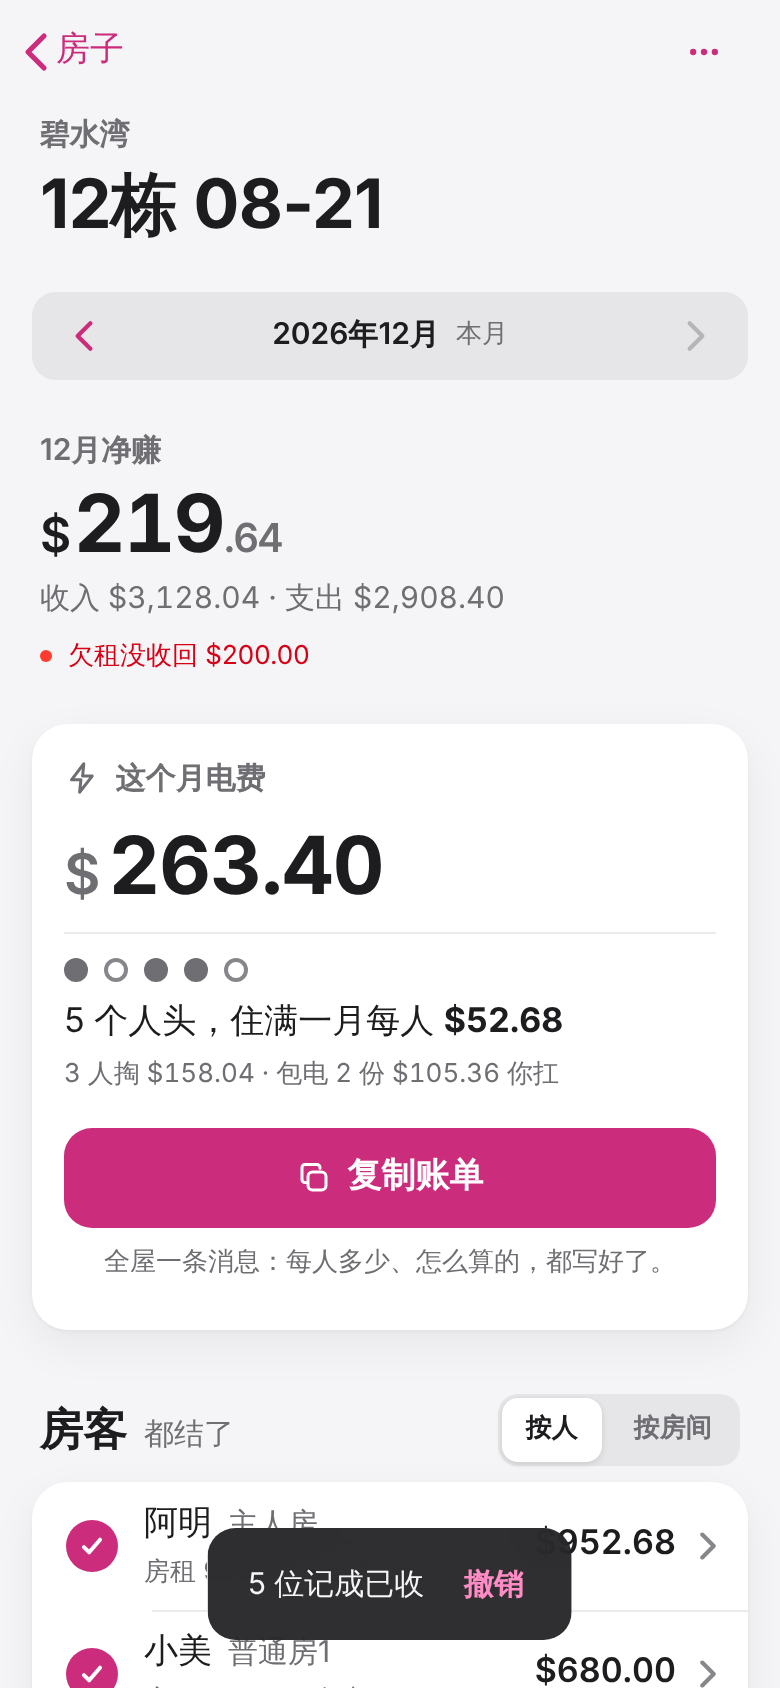
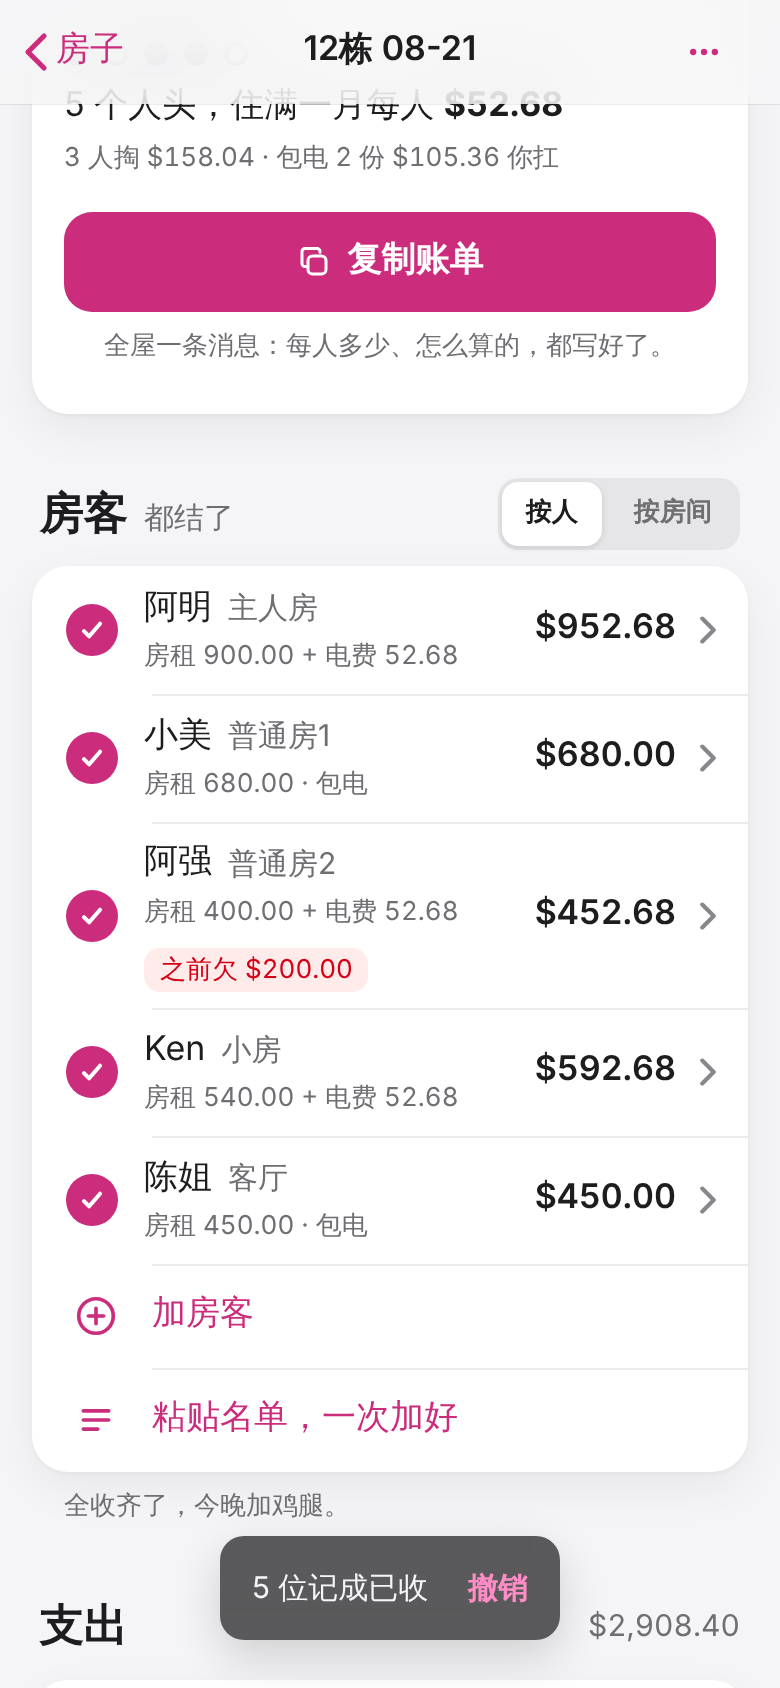
包租僧 0.3.0：撤销提示条底部居中、毛玻璃、圆角 12，页底留 96 不盖最后一行；重出 3-result 四张
Claude-Session: https://claude.ai/code/session_01KCV9xrugD8gYybbP9zkdxi

diff --git a/baozuseng/index.html b/baozuseng/index.html
@@ -29,7 +29,7 @@
   --shadow:0 1px 2px rgba(0,0,0,.04),0 8px 24px rgba(0,0,0,.06);
   --ease:cubic-bezier(.2,.8,.2,1); --t:240ms;
   --glass:rgba(245,245,247,.72); --scrim:rgba(0,0,0,.32); --sheet:#f5f5f7; --sheet-card:#ffffff;
-  --toast-bg:rgba(29,29,31,.92); --toast-fg:#f5f5f7; --knob:#ffffff; --bar:rgba(120,120,128,.28);
+  --toast-bg:rgba(29,29,31,.72); --toast-fg:#f5f5f7; --knob:#ffffff; --bar:rgba(120,120,128,.28);
   color-scheme:light;
 }
 @media (prefers-color-scheme:dark){:root{
@@ -40,7 +40,7 @@
   --accent:#ff5ca8; --accent-fill:#d63384; --accent-tint:rgba(255,92,168,.16);
   --bad-ink:#ff6961; --bad-tint:rgba(255,69,58,.16);
   --glass:rgba(22,22,24,.72); --scrim:rgba(0,0,0,.56); --sheet:#1c1c1e; --sheet-card:#2c2c2e;
-  --toast-bg:rgba(58,58,60,.96); --bar:rgba(120,120,128,.44);
+  --toast-bg:rgba(58,58,60,.72); --bar:rgba(120,120,128,.44);
   color-scheme:dark;
 }}
 
@@ -77,7 +77,7 @@ button:focus:not(:focus-visible),a:focus:not(:focus-visible){outline:none}
 .stale-all #hHero,.stale-all #hTen{opacity:.35;transition:opacity 200ms var(--ease)}
 
 /* 页面 */
-.wrap{max-width:600px;margin:0 auto;padding:0 max(16px,env(safe-area-inset-right,0px)) 48px max(16px,env(safe-area-inset-left,0px))}
+.wrap{max-width:600px;margin:0 auto;padding:0 max(16px,env(safe-area-inset-right,0px)) calc(96px + env(safe-area-inset-bottom,0px)) max(16px,env(safe-area-inset-left,0px))}
 #view{overflow-x:clip}
 .enter{animation:push var(--t) var(--ease)}
 @keyframes push{from{opacity:.4;transform:translateX(12px)}to{opacity:1;transform:none}}
@@ -304,10 +304,12 @@ a.row:active,button.row:active,.row-btn:active{background:var(--fill)}
 .bk.dup{opacity:.5}
 
 /* 提示条：能撤销 */
-#toast{position:fixed;left:50%;bottom:calc(24px + env(safe-area-inset-bottom,0px));z-index:60;display:flex;align-items:center;gap:16px;max-width:calc(100% - 32px);transform:translate(-50%,16px);opacity:0;pointer-events:none;padding:12px 20px;border-radius:var(--r-btn-l);background:var(--toast-bg);color:var(--toast-fg);font-size:15px;font-weight:400;-webkit-backdrop-filter:saturate(180%) blur(20px);backdrop-filter:saturate(180%) blur(20px);transition:opacity var(--t) var(--ease),transform var(--t) var(--ease)}
-#toast.show{opacity:1;transform:translate(-50%,0)}
+/* 提示条：底部居中（整页内容区就是居中的），离底 24 + 安全区，毛玻璃；页面底部留了 96 不让它盖最后一行 */
+#toast{position:fixed;left:0;right:0;margin:0 auto;width:max-content;bottom:calc(24px + env(safe-area-inset-bottom,0px));z-index:60;display:flex;align-items:center;gap:12px;min-height:44px;max-width:calc(100% - 32px);transform:translateY(16px);opacity:0;pointer-events:none;padding:8px 16px;border-radius:var(--r-btn);box-shadow:0 8px 24px rgba(0,0,0,.16);background:var(--toast-bg);color:var(--toast-fg);font-size:15px;font-weight:400;-webkit-backdrop-filter:saturate(180%) blur(20px);backdrop-filter:saturate(180%) blur(20px);transition:opacity var(--t) var(--ease),transform var(--t) var(--ease)}
+#toast.show{opacity:1;transform:none}
+#toast.has-act{padding-right:8px}
 #toast.show.has-act{pointer-events:auto}
-#toast button{color:#ff8cc4;font-weight:600;min-height:32px;padding:0 4px;white-space:nowrap}
+#toast button{color:#ff8cc4;font-weight:600;min-height:36px;padding:0 8px;border-radius:var(--r-chip);white-space:nowrap}
 
 /* 放到主屏幕 */
 .a2hs{display:flex;gap:12px;align-items:center;background:var(--card);border-radius:var(--r-card);padding:12px 4px 12px 16px;margin-bottom:24px;box-shadow:var(--shadow)}

diff --git a/baozuseng/bench/shots-0.3.js b/baozuseng/bench/shots-0.3.js
@@ -38,7 +38,9 @@ const IPHONE_UA = 'Mozilla/5.0 (iPhone; CPU iPhone OS 17_5 like Mac OS X) AppleW
       await p.locator('[data-act=copy-bills]').click(); await p.waitForTimeout(300);
       await p.locator('[data-act=all-paid]').click(); await p.waitForTimeout(200);
       if (await p.locator('#cfOk').count()) { await p.waitForTimeout(400); await p.keyboard.press('Escape'); }
-      await p.evaluate(() => window.scrollTo(0, 0));
+      // 手机上滚到房客列表（结果在这），提示条落在列表下面留出的空白里
+      if (w === 390) await p.evaluate(() => { const l = document.querySelector('#hTen .list'); window.scrollTo(0, l.getBoundingClientRect().bottom + scrollY - (innerHeight - 108)); });
+      else await p.evaluate(() => window.scrollTo(0, document.documentElement.scrollHeight)); // 电脑：滚到底，提示条落在页底留出的空白里，左栏吸顶仍在
       await shot(p, '3-result');
       await ctx.close(); }
     // 出错：电费里打了字母
